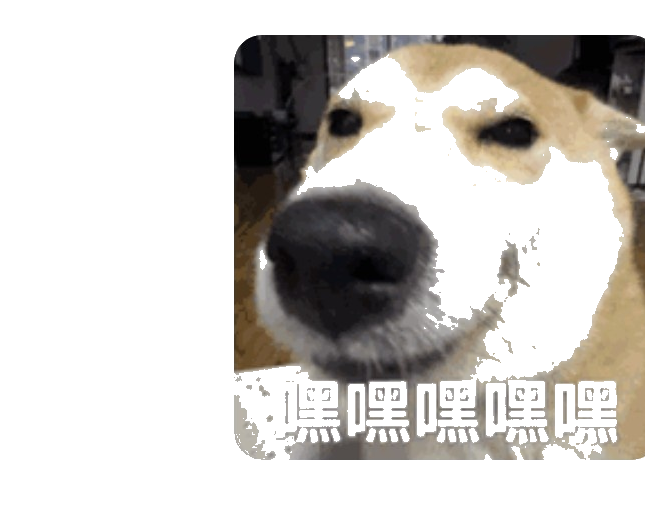
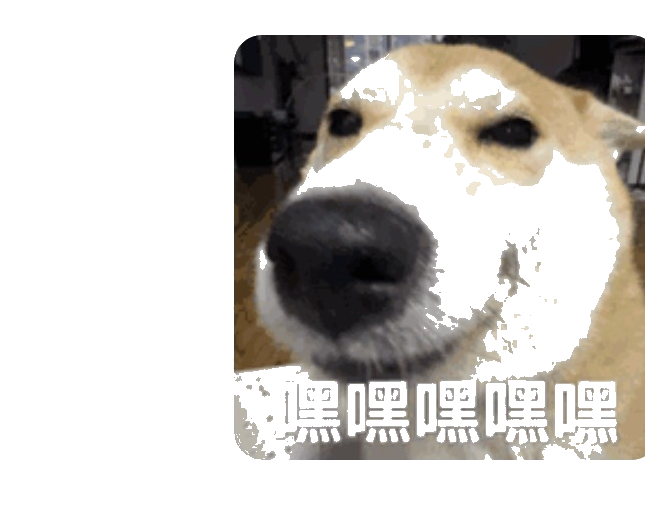
fix: 火鸡面完整裁切+表情透明背景+引用消息支持

diff --git a/birthday-gift/src/components/MomentCard.tsx b/birthday-gift/src/components/MomentCard.tsx
@@ -63,6 +63,11 @@ export default function MomentCard({ moment, index }: MomentCardProps) {
                         {isMe ? (
                           <>
                             <div className={`max-w-[78%] justify-self-end self-end ${msg.image ? '' : 'px-3 py-2 bubble-me'}`}>
+                              {msg.quote && (
+                                <div className="mb-1.5 pl-2 border-l-2 border-white/40 text-[12px] text-white/70 leading-snug">
+                                  {msg.quote}
+                                </div>
+                              )}
                               {msg.image ? <img src={msg.image} alt="" className="w-[110px] h-auto" /> : <span className="text-[15px] leading-relaxed">{msg.text}</span>}
                             </div>
                             <img
@@ -85,6 +90,11 @@ export default function MomentCard({ moment, index }: MomentCardProps) {
                               className="w-8 h-8 rounded-full object-cover shrink-0 self-end"
                             />
                             <div className={`max-w-[78%] self-end ${msg.image ? '' : 'px-3 py-2 bubble-her'}`}>
+                              {msg.quote && (
+                                <div className="mb-1.5 pl-2 border-l-2 border-gray-400/50 text-[12px] text-gray-500 leading-snug">
+                                  {msg.quote}
+                                </div>
+                              )}
                               {msg.image ? <img src={msg.image} alt="" className="w-[110px] h-auto" /> : <span className="text-[15px] leading-relaxed">{msg.text}</span>}
                             </div>
                             <span />

diff --git a/birthday-gift/src/data/moments.ts b/birthday-gift/src/data/moments.ts
@@ -32,6 +32,7 @@ export type ChatMessage = {
   text: string
   time?: string
   image?: string // 贴纸/照片，直接显示图片
+  quote?: string // 引用的对方之前的消息
 }
 
 export type Letter = {
@@ -170,8 +171,7 @@ export const moments: Moment[] = [
     chat: [
       { from: 'me', text: '', image: './images/stickers/fire-noodle-meal.png', time: '23:44' },
       { from: 'me', text: '不知道你究竟经历了什么' },
-      { from: 'her', text: '快再次成为了' },
-      { from: 'me', text: '我先替你吃一包火鸡面' },
+      { from: 'me', text: '我先替你吃一包火鸡面', quote: '快再次成为了' },
       { from: 'her', text: '我讨厌你', time: '00:33' },
       { from: 'her', text: '', image: './images/stickers/angry-red.png' },
       { from: 'me', text: '你也吃' },
